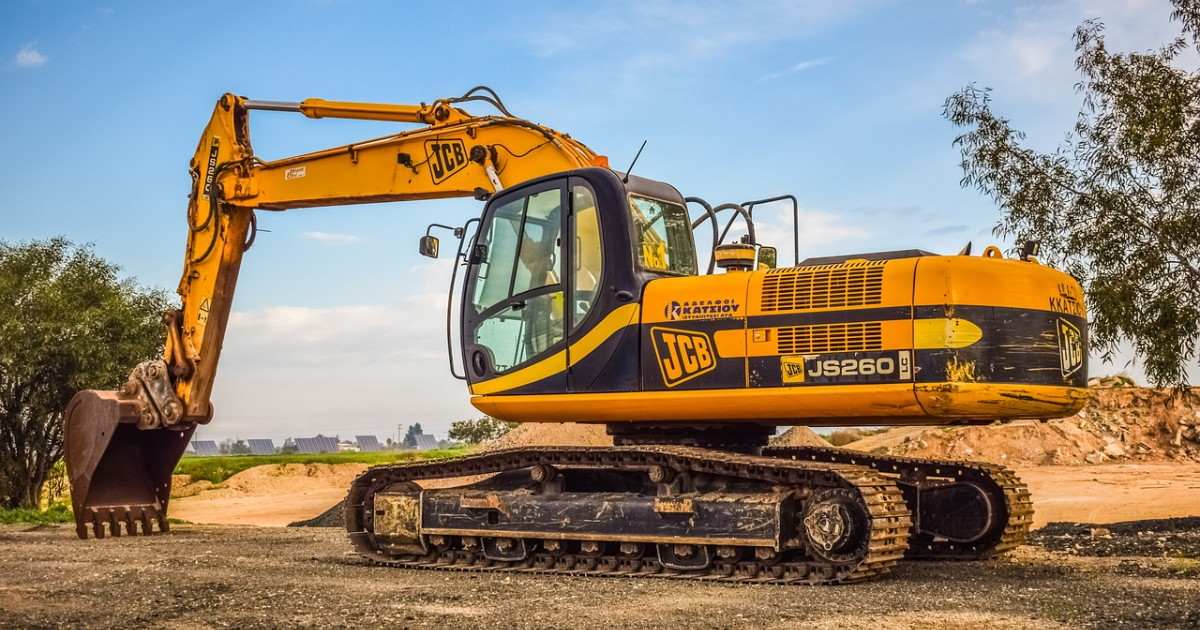
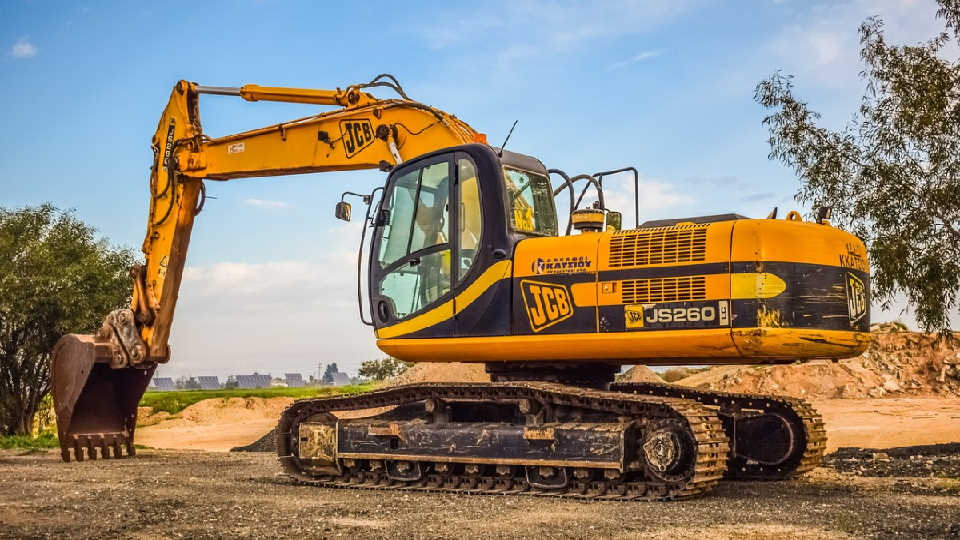
Edited image sizes to be 960x540 to avoid size jumping after transition, added carousel fade transition, added captions

diff --git a/index.html b/index.html
@@ -38,7 +38,7 @@
         <div class="web__heading">
             <h2>Websites</h2>
         </div>
-        <div id="web_carousel" class="carousel slide" data-bs-ride="carousel">
+        <div id="web_carousel" class="carousel slide carousel-fade" data-bs-ride="carousel">
             <div class="carousel-indicators">
                 <button type="button" data-bs-target="#web_carousel" data-bs-slide-to="0" class="active" aria-current="true" aria-label="Slide 1"></button>
                 <button type="button" data-bs-target="#web_carousel" data-bs-slide-to="1" aria-label="Slide 2"></button>
@@ -46,9 +46,18 @@
             <div class="carousel-inner">
                 <div class="carousel-item active carousel__item">
                     <img class="d-block w-100 carousel__img" src="img/exportData.png" alt="Data being exported">
+                    <div class="carousel-caption d-none d-md-block">
+                        <h3>Game Object Data Exporter</h3>
+                        <p>Coming soon! A single page site used to input, edit, and export data about various game objects into json,
+                            which can then be used in the game.</p>
+                    </div>
                 </div>
                 <div class="carousel-item carousel__item">
                     <img class="d-block w-100 carousel__img" src="img/digger.jpg" alt="Digger excavating dirt">
+                    <div class="carousel-caption d-none d-md-block">
+                        <h3>SEGW</h3>
+                        <p>Coming soon! A website for a construction company.</p>
+                    </div>
                 </div>
             </div>
             <button class="carousel-control-prev" type="button" data-bs-target="#web_carousel" data-bs-slide="prev">
@@ -59,19 +68,6 @@
                 <span class="carousel-control-next-icon" aria-hidden="true"></span>
                 <span class="visually-hidden">Next</span>
             </button>
-        </div>
-
-        <div class="web__gode">
-            <div class="web__gode--text">
-                <h3>Game Object Data Exporter</h3>
-            <p>Coming soon! A single page site used to input, edit, and export data about various game objects into json, which can then be used in the game.</p>
-            </div>
-        </div>
-        <div class="web__segw">
-            <div class="web__segw--text">
-                <h3>SEGW</h3>
-                <p>Coming soon! A website for a construction company.</p>
-            </div>
         </div>
     </section>
     <section class="games" id="games">

diff --git a/styles.css b/styles.css
@@ -1,4 +1,9 @@
 /* General */
+/* This is for a header that will fill the viewport's height
+header {
+    height: 100vh;
+    height: 100svh;
+}*/
 body {
     font-family: Arial;
     margin-left: 5%;
@@ -6,20 +11,16 @@ body {
 }
 
 /* Intro */
-.intro__text {
-    width: 91%;
-}
 
 /* Carousel */
 .carousel {
     width: 100%;
 }
 .carousel__item {
-    height: auto;
+    object-fit: contain;
 }
 .carousel__img {
-    height: auto;
-    width: auto;
+    object-fit: contain;
 }
 
 /* Web */
